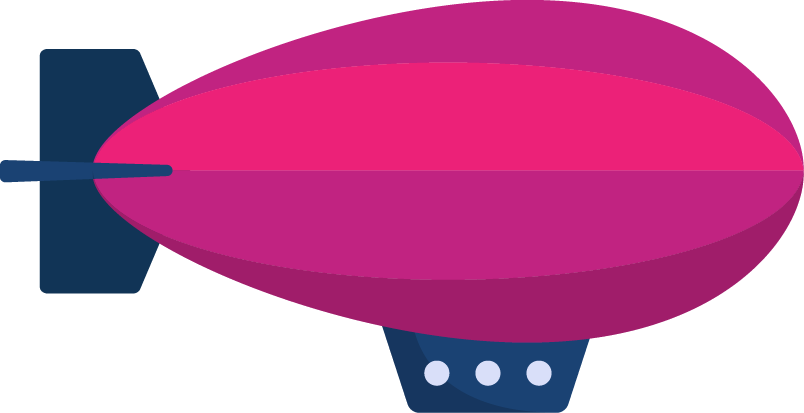
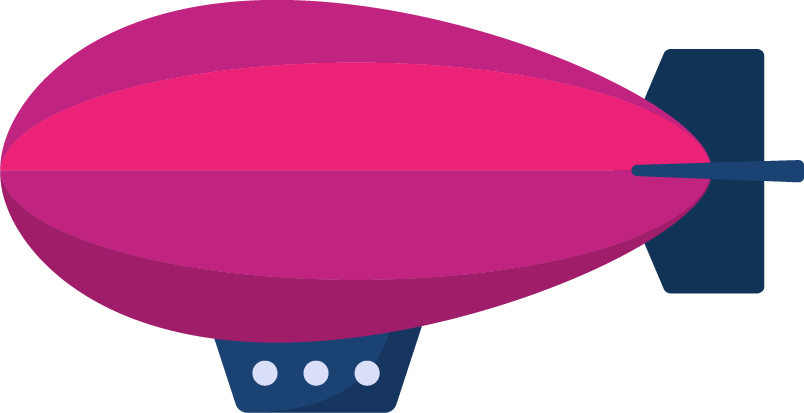
Feat: home zeppelin illustration animation

diff --git a/src/views/home/HomeZeppelin/HomeZeppelin.scss b/src/views/home/HomeZeppelin/HomeZeppelin.scss
@@ -260,3 +260,24 @@
     width: 35ch;
   }
 }
+@keyframes zeppelin_animation {
+  0% {
+    transform: translateX(30%) scaleX(1);
+  }
+  49% {
+    transform: translateX(-30%);
+  }
+  50% {
+    transform: translateX(-30%) scaleX(-1);
+  }
+
+  100% {
+    transform: translateX(30%) scaleX(-1);
+  }
+}
+
+.zep-illustration {
+  animation: zeppelin_animation 6s infinite;
+  // transition: 0.5s;
+  // transform: translateX(100px);
+}

diff --git a/src/views/home/HomeZeppelin/HomeZeppelin.tsx b/src/views/home/HomeZeppelin/HomeZeppelin.tsx
@@ -93,7 +93,11 @@ const HomeZeppelin = () => {
               Zeppelin
             </h1>
           </Flex>
-          <Image src={Home.ZeppPink} alt="home zeppelin" />
+          <Image
+            src={Home.ZeppPink}
+            alt="home zeppelin"
+            className="zep-illustration"
+          />
 
           <Flex className="home-zep-desc" color={Palette.Navy}>
             <p>
